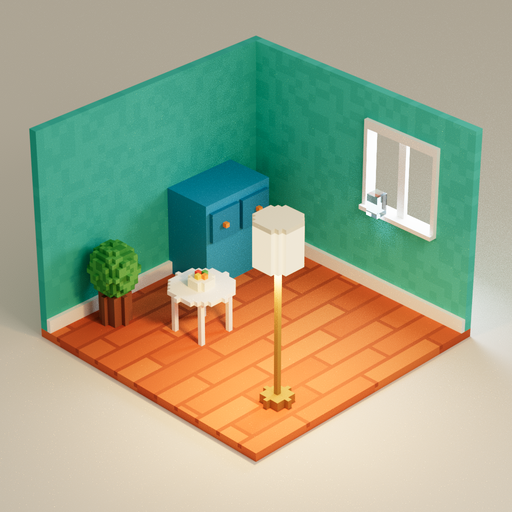
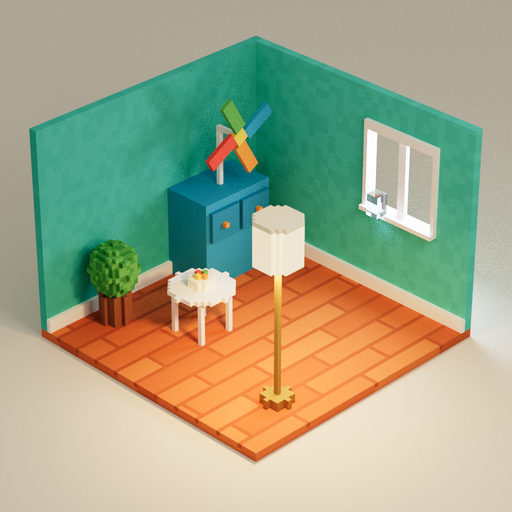
docs: voxel-diorama skill (modes, animation API, NOT-EMPTY targets, check command), user guide, scaffold images, CHANGELOG (#299)
Claude-Session: https://claude.ai/code/session_01LyBV1tX2JWocGLTjFkNYMh

Changed region(s): [[0.3125, 0.1875, 0.5312, 0.375], [0.5312, 0.5312, 0.5625, 0.5938], [0.2812, 0.5312, 0.3125, 0.5625]]

diff --git a/kits/pathtracer/SKILL.md b/kits/pathtracer/SKILL.md
@@ -8,6 +8,14 @@ and `crow-voxel-kit`, a voxel grid + mesher + studio. It gives global illuminati
 and contact shadows, colour bleeding and a lamp glow with no shader code of your own.
 Kit folder: `@CROW_KITS@/pathtracer` (scaffold in `scaffold/`, API in `voxel-kit.js`).
 
+The page has TWO MODES. It opens in LIVE mode: an animated raster preview (real lights,
+soft shadow maps, the same materials) that runs your `d.animate` callback every frame and
+can be orbited with the mouse. PHOTO mode pauses the animation at t and path-traces the
+frame until it converges. Key P or the small "Foto"/"Live" button switch. URL:
+`index.html?mode=photo&t=2` opens the photo of t = 2 s, `?mode=live` the preview, `&ui=0`
+hides the button. The kit is the only renderer code you need: no OrbitControls, no
+EffectComposer, no shaders.
+
 ## Steps
 
 1. Copy the scaffold. `read_file` `@CROW_KITS@/pathtracer/scaffold/index.html` and
@@ -15,36 +23,76 @@ Kit folder: `@CROW_KITS@/pathtracer` (scaffold in `scaffold/`, API in `voxel-kit
    working area. Do NOT copy `crow-pathtracer.js`: `build_bundle` resolves the bare imports
    `crow-voxel-kit` and `crow-pathtracer` to the kit itself.
 2. Plan on paper first (a short list in your reply): grid size, a palette of named hex
-   colours, every prop with its voxel box. DENSITY RULE: a room is at least 64 voxels wide
-   (walls ~48 high); every prop is at least 8-16 voxels in each dimension. Coarse voxels
-   make objects unreadable -- a 3-voxel chair is a blob.
-3. Write the scene in `src/scene.js`, content section only:
+   colours, every prop with its voxel box, every animated part. DENSITY RULE: a room is at
+   least 64 voxels wide (walls ~48 high); every main prop is at least 8-16 voxels in each
+   dimension. Coarse voxels make objects unreadable -- a 3-voxel chair is a blob.
+3. NOT-EMPTY RULE. The references are dense: every patch of ground carries something. Plan
+   and build at least:
+   - **40 named props** (`g.prop`) of **12 or more kinds**, **60,000 voxels** in total;
+   - **terrain coverage >= 0.5**: at least half of the ground's top cells have a prop above;
+   - the small details, many of each: rocks, grass tufts, flowers, bushes, fences, barrels,
+     crates, lanterns, paths/stepping stones, signs, birds, a bench, a well. A loop may
+     place 30 tufts -- they count as 30 props but ONE kind (names ending in a number are
+     one kind).
+4. Write the scene in `src/scene.js`, content section only:
    - `const g = new VoxelGrid()`; `g.box(x0,y0,z0, x1,y1,z1, colour, kind)`, `g.put`,
      `g.cyl(cx,cz,r, y0,y1, ...)`, `g.blob(cx,cy,cz, rx,ry,rz, ...)`, `g.clear(...)`.
      y is up; corners inclusive. `colour` is `'#rrggbb'` or `(x,y,z) => colour|null`
      (use `hash(x,y,z)` for variation). `kind`: `'matte'` (default), `'metal'`, `'glass'`,
      `'emit'`.
+   - Terrain (floor, island, cliffs) is built OUTSIDE any prop. Every object on it goes in
+     `g.prop('crate', () => { g.box(...); ... })` -- the name, its voxel count and bbox are
+     recorded; props may nest. Coverage is measured against the terrain, so an island built
+     inside a prop has no terrain and coverage `null`.
    - `const d = createDiorama(g, { width: 1024, height: 1024, background: '#ddd6c8' })`.
+     Night: a dark `background`, dark `domeTop`/`domeBottom`, `domeIntensity` ~0.15, a dim
+     cool `keyIntensity`, and the lamps/spots carry the light.
    - Lamps: `d.addLamp({ x, z, bottom, top })` -- it builds the SOLID glowing shade and puts
      the spot light just below it. Build the pole/base yourself up to `bottom - 1`.
    - Daylight: `d.addAreaLight({ at: [x,y,z], lookAt: [x,y,z], intensity: 30, width: 18, height: 18 })`
      just outside a window opening.
+   - A beam: `const beam = d.addSpot({ at: [x,y,z], lookAt: [x,y,z], angle: 12, intensity: 3000 })`
+     (`angle` = half-angle in degrees). `addLamp`, `addAreaLight` and `addSpot` return the
+     light's rig (a `THREE.Group` at `at`): `beam.rotation.y = t` sweeps it around `at`.
+   - Animated parts: build each moving thing in ITS OWN grid (same voxel coordinates), then
+     `const p = d.part('beam cone', partGrid, { pivot: [x,y,z] })` -> a `THREE.Group` that
+     turns around `pivot` (default: the part's centre). One part per independently moving
+     thing: one per firefly, one per water frame. A hidden part (`p.visible = false`) is
+     left out of the photo too. `p.userData.home` is its start position (world units; one
+     voxel = `d.voxelSize`).
+   - `d.animate((t, dt, scene) => { ... })` runs every live frame and once at the photo's
+     t. Drive everything from `t` (seconds): `beam.rotation.y = t * 0.8`,
+     `frames.forEach((f, i) => f.visible = i === Math.floor(t * 6) % frames.length)`,
+     `fly.position.y = fly.userData.home.y + 0.3 * Math.sin(t * 2 + i)`.
+     NEVER `Date`, `Math.random` or your own timers: Crow captures animation at a frozen,
+     stepped page clock, and only `t` moves with it. Use `hash(i, 0, 0)` for per-particle
+     variety.
    - `d.start()` last. It throws, with the reason, on anything that would render wrong.
-4. Build: `build_bundle` entry `src/index.html`, out `index.html`. That one file is the
+5. Build: `build_bundle` entry `src/index.html`, out `index.html`. That one file is the
    deliverable; it opens offline from file://. Edit `src/`, build again, never patch
    `index.html`.
-5. Verify: `render_page` `index.html`, `wait_ms` 20000, `width`/`height` = the canvas size,
-   one frame. Read the console lines `[crow-pt] ...`:
-   - `renderer:` must name the GPU (NVIDIA/AMD/Intel), not SwiftShader/llvmpipe;
-   - `samples=` should be >= 200 at 20 s (measured ~15 samples/s at 1024x1024 on an
-     RTX 5090; 60k triangles cost the same as 9k); `lost=0`, or a restore followed.
-   Then `read_image` the screenshot and check, item by item, against the user's reference
-   image if there is one: colour bleeding from walls onto floor, dark contact shadows in
-   creases, soft shadow edges, a warm light pool under each lamp, clean background with a
-   soft ground shadow, no grain or bright specks, every prop recognisable by name.
-   `window.__SCENE__` (voxels, triangles, materials) and `window.__PT__` (samples,
-   samplesPerSecond, renderer, lost) hold the same numbers for a checker.
-6. Fix what the check found in `src/scene.js` and repeat 4-5. Change content and light,
+6. Verify:
+   - Motion: `render_page` `index.html?mode=live&ui=0`, `frames` 4, `frame_ms` 500,
+     `width`/`height` = the canvas size. `read_image` the contact sheet: the beam, the water
+     and the particles must be in different places in the 4 frames.
+   - Photo: `render_page` `index.html?mode=photo&t=2&ui=0`, `wait_ms` 20000, one frame.
+     Read the console lines:
+     - `renderer:` must name the GPU (NVIDIA/AMD/Intel), not SwiftShader/llvmpipe;
+     - `[crow-pt] samples=` should be >= 200 at 20 s (measured ~15 samples/s at 1024x1024 on
+       an RTX 5090; 60k triangles cost the same as 9k); `lost=0`, or a restore followed;
+     - `[crow-scene] {...}`: `props`, `propKinds`, `voxels`, `coverage`, `parts`,
+       `animated`, `errors` -- hold them against the NOT-EMPTY targets.
+     Then `read_image` the photo and check, item by item, against the user's reference
+     image if there is one: colour bleeding, dark contact shadows in creases, soft shadow
+     edges, a warm light pool under each lamp, a clean background, no grain or bright specks,
+     every prop recognisable by name, no bare patch of ground.
+   - The whole check in one command (a goal's `check:`):
+     `python3 @CROW_KITS@/pathtracer/check_diorama.py index.html` -- PASS/FAIL per check
+     (gpu, samples, props, kinds, voxels, coverage, motion, repeat, photo, errors), exit 0
+     only when all pass.
+   `window.__SCENE__` (voxels, props with bbox, coverage, parts, animated, mode) and
+   `window.__PT__` (samples, samplesPerSecond, fps, renderer, lost) hold the same numbers.
+7. Fix what the check found in `src/scene.js` and repeat 5-6. Change content and light,
    not the kit.
 
 ## Traps (each one measured, 2026-09-25)
@@ -53,9 +101,13 @@ Kit folder: `@CROW_KITS@/pathtracer` (scaffold in `scaffold/`, API in `voxel-kit
   palette colour; never add a mesh with `vertexColors`, InstancedMesh or a non-Standard
   material (`start()` refuses them).
 - A spot light inside a hollow lamp shade: persistent fireflies (PSNR 30.6 dB); below a
-  solid shade: 38.6 dB. Use `addLamp`, do not place lamp lights by hand.
+  solid shade: 38.6 dB. Use `addLamp`, do not place lamp lights by hand; put an `addSpot`
+  beam outside the lantern glass, in front of solid voxels.
 - Bright emissive voxels are fireflies (the library does not importance-sample them).
-  Keep `emit` dim (the kit caps emissiveIntensity at 1) and light with lamps/area lights.
+  Keep `emit` dim (the kit caps emissiveIntensity at 1) and light with lamps/spots/area
+  lights. Fireflies/particles may be `emit` voxels; they glow, they do not light.
+- Animation from `Date.now()`, `Math.random()` or `setInterval` counters: the 4 live frames
+  do not repeat and Crow's motion check cannot trust them. Only `t` (and `dt`).
 - The source page `src/index.html` shows nothing from file:// (module imports are
   blocked). Always render the built `index.html`.
 - `build_bundle` needs an esbuild on this machine. If it reports none, tell the user --

diff --git a/docs/user-guide/voxel-kit.md b/docs/user-guide/voxel-kit.md
@@ -2,13 +2,14 @@
 
 # Voxel kit (path tracing)
 
-Path-traced voxel scenes (the MagicaVoxel look) as one offline HTML page (#298). The model writes
-only the content: voxels, a palette, lamps. Global illumination, soft and contact shadows, colour
-bleeding and the lamp glow come from a vendored path tracer. The model never writes a ray tracer
-or a shader.
+Path-traced voxel scenes (the MagicaVoxel look) as one offline HTML page (#298), animated and
+orbitable (#299). The model writes only the content: voxels, a palette, props, lamps, moving parts.
+Global illumination, soft and contact shadows, colour bleeding and the lamp glow come from a
+vendored path tracer. The model never writes a ray tracer or a shader.
 
 <div align="center">
-<img src="../images/voxel-kit-scaffold.png" alt="The kit's scaffold room, path traced: teal walls, plank floor, cabinet, table, plant, floor lamp, window" width="480">
+<img src="../images/voxel-kit-scaffold.png" alt="The kit's scaffold room in photo mode, path traced: teal walls, plank floor, cabinet with a pinwheel, table, plant, floor lamp, window" width="400">
+<img src="../images/voxel-kit-live-frames.png" alt="Four live-mode frames of the scaffold 0.5 s apart: the pinwheel turns" width="400">
 </div>
 
 ## Switch it on
@@ -36,7 +37,8 @@ or a shader.
 | 3 | plans the grid, palette and props (density rule below) |
 | 4 | writes `src/scene.js` with `crow-voxel-kit` |
 | 5 | `build_bundle` entry `src/index.html`, out `index.html`: one offline file |
-| 6 | `render_page index.html` with `wait_ms` 20000, reads the `[crow-pt]` console lines, then `read_image` against the reference |
+| 6 | `render_page index.html?mode=live&ui=0` with `frames` 4 (motion), `render_page index.html?mode=photo&t=2&ui=0` with `wait_ms` 20000 (the photo), reads the `[crow-pt]` / `[crow-scene]` console lines, then `read_image` against the reference |
+| 7 | or all of it at once: `check_diorama.py index.html` (below) |
 
 `import … from 'crow-voxel-kit'` and `'crow-pathtracer'` are resolved by `build_bundle` to the
 installed kit. The library never has to be in the working area. An import map in the page for
@@ -57,6 +59,33 @@ the same name wins.
 `start()` refuses a scene with `vertexColors`, a non-Standard material, an `InstancedMesh` or
 `emissiveIntensity` > 1, and names the mesh.
 
+## Modes (#299)
+
+| | |
+|---|---|
+| LIVE (default) | rasterised preview of the same scene and materials: real lights, soft shadow maps (`PCFShadowMap` + `shadow.radius`), the dome as environment, no bloom. Runs `d.animate` every frame. Area and key lights get raster stand-ins (a wide spot, a directional light) |
+| PHOTO | the animation paused at t, the scene posed once, the path tracer converging (the rules above: despeckle, context-loss restore) |
+| switch | key **P**, or the small **Foto** / **Live** button bottom right (shows only while the pointer is over the page) |
+| `?mode=photo&t=2` | opens as the photo of t = 2 s (for a judge) |
+| `?mode=live` | the preview |
+| `&ui=0` | no button at all |
+| camera | drag orbits around the target, wheel or pinch zooms (0.5×–3×); in photo mode a camera change restarts the accumulation (`updateCamera()`) |
+| time | only the page clock (the rAF timestamp): under render_page's frozen clock (#293) 4 frames differ and a second capture repeats them byte for byte |
+
+## Not empty (#299)
+
+Every object on the terrain goes in `g.prop('name', () => { … })`. Everything built outside a prop
+is terrain. The page reports:
+
+| | |
+|---|---|
+| `props` | named props that still hold voxels, each with `voxels` and `bbox` |
+| `propKinds` | distinct names without a trailing number (`rock 3`, `rock#12` → `rock`) |
+| `coverage` | terrain columns with a prop cell above the column's top terrain cell ÷ all terrain columns; `null` without terrain |
+
+The skill's targets: ≥ 40 props of ≥ 12 kinds, ≥ 60,000 voxels, coverage ≥ 0.5.
+
+
 ## API
 
 | | |
@@ -66,12 +95,40 @@ the same name wins.
 | `.box(x0,y0,z0, x1,y1,z1, …)` · `.clear(…)` | corners inclusive |
 | `.cyl(cx,cz, r, y0,y1, …)` · `.blob(cx,cy,cz, rx,ry,rz, …)` | vertical cylinder · ellipsoid |
 | `hash(x,y,z)` | stable value in [0,1) for colour variation |
-| `createDiorama(grid, opts)` | `width` `height` (1024), `voxelSize` (0.4), `background` (`#ddd6c8`), `fov` (14), `direction` ([1, 0.82, 1]), `zoom`, `fStop` (3.2), `bounces` (6), `despeckle` (true) |
-| `.addLamp({x, z, bottom, top})` | solid glowing shade from `bottom` to `top`, closed top, spot light below it |
-| `.addAreaLight({at, lookAt, intensity, width, height})` | soft rectangle light, voxel coordinates, e.g. daylight outside a window |
-| `.start()` | meshes, lights, camera, path tracer; returns `{scene, camera, renderer, pathTracer, probe}` |
-| `window.__SCENE__` | `voxels` `faces` `triangles` `materials` `lights` `size` |
-| `window.__PT__` | `renderer` `samples` `samplesPerSecond` `lost` `restored` `despeckled` `error` |
+| `createDiorama(grid, opts)` | `width` `height` (1024), `voxelSize` (0.4), `background` (`#ddd6c8`), `fov` (14), `direction` ([1, 0.82, 1]), `zoom`, `fStop` (3.2), `bounces` (6), `despeckle` (true), `shadows` (true), `shadowRadius` (4), `orbit` (true), `minZoom` (0.5), `maxZoom` (3), `liveLight` (1, live light scale) |
+| `.addLamp({x, z, bottom, top})` | solid glowing shade from `bottom` to `top`, closed top, spot light below it; returns the light rig |
+| `.addAreaLight({at, lookAt, intensity, width, height})` | soft rectangle light, voxel coordinates, e.g. daylight outside a window; returns the light rig |
+| `.addSpot({at, lookAt, colour, intensity, angle, penumbra, shadow})` | spot light, `angle` = half-angle in degrees; returns the light rig (`rig.rotation.y = t` sweeps a beam) |
+| `g.prop(name, build)` | records what `build` adds: `{name, voxels, bbox}`; props nest |
+| `.part(name, grid, {pivot})` | an animated part from its own grid → `THREE.Group` turning around `pivot`; `userData.home` = start position |
+| `.animate((t, dt, scene) => …)` | every live frame, and once at the photo's t; `t` in seconds of page time |
+| `.start()` | meshes, lights, camera, the chosen mode; returns `{scene, camera, renderer, pathTracer, probe, setMode, mode, time}` |
+| `.setMode('live' \| 'photo')` | what P does |
+| `window.__SCENE__` | `voxels` `staticVoxels` `faces` `triangles` `materials` `lights` `size` `props` `propCount` `propKinds` `propVoxels` `coverage` `terrainColumns` `parts` `animated` `mode` `t` `errors` |
+| `window.__PT__` | `renderer` `mode` `samples` `samplesPerSecond` `fps` `lost` `restored` `despeckled` `error` |
+| console | `[crow-scene] {json}` at start, first live frame, every mode switch and every 5 s; `[crow-pt] samples=…` (photo) / `[crow-live] fps=…` (live) every 5 s |
+
+## Checker
+
+`kits/pathtracer/check_diorama.py <built index.html>`: renders through Crow's own `render_page`
+(4 live frames twice, one photo at `wait_ms` 20000), prints PASS/FAIL per check, exit 0 only when
+all pass, 2 on a setup error.
+
+| check | passes when |
+|---|---|
+| gpu | both captures `render_mode` gpu, renderer not SwiftShader/llvmpipe |
+| probe | the `[crow-scene]` line came back from both, in the asked mode |
+| samples | photo ≥ `--min-samples` (200) |
+| props · kinds · voxels | ≥ `--min-props` (40) · `--min-kinds` (12) · `--min-voxels` (60000) |
+| coverage | ≥ `--min-coverage` (0.5) |
+| motion | animated, and all 6 pairs of the 4 live frames differ in > 0.5 % of pixels (channel delta > 25) |
+| repeat | the second live capture is byte-identical (`--no-repeat` skips) |
+| photo | not near-uniform, < 90 % near-black |
+| errors | no `Uncaught` / `[crow-error]` console line, `errors` 0, no setScene failure |
+
+Options: `--photo-t` (2), `--wait-ms` (20000), `--frame-ms` (500), `--size` (1024),
+`--reference DIR` (writes `<photo>-vs-reference.png` and prints mean luma/saturation per image),
+`--crow-cli DIR` (default: the `cli/` beside the kit, then `~/.local/share/crow/cli`).
 
 ## Numbers
 
@@ -79,7 +136,9 @@ the same name wins.
 |---|---|
 | samples/s | 13.0 at 10 s, 14.3 at 40 s, scaffold room (26,627 voxels, 46,168 triangles, 23 materials), headless Chromium 152, ANGLE/Vulkan, RTX 5090, 2026-09-25 |
 | proof scene | ~15 samples/s at 9,124 and at 59,964 triangles; PSNR 60 s vs 180 s = 39.79 dB (HD5) |
-| page size | 970,310 bytes (scaffold, built with esbuild 0.28.2) |
+| page size | 970,310 bytes (scaffold, built with esbuild 0.28.2); 981,292 bytes with the #299 kit (esbuild 0.25.5) |
+| live preview | 60 fps (vsync cap) on the scaffold, headless Chromium, ANGLE/Vulkan, RTX 5090, 1024×1024, 2026-09-25 |
+| photo after 20 s | 289 samples (14.5 samples/s), scaffold with the pinwheel part, same machine |
 | bundle | `crow-pathtracer.js` 958,266 bytes, sha256 in `kits/pathtracer/kit.json` |
 
 ## Third party

diff --git a/CHANGELOG.md b/CHANGELOG.md
@@ -16,6 +16,12 @@ The reasoning is in the commit and on the issue.
   - Before: the 2026-09-24/25 goal run hand-wrote a WebGL2 ray tracer for ~16 h (#293–#295).
   - The model's use of the kit in a live goal run is not measured.
 
+- **Voxel kit v2: animated live preview, photo mode, orbit, props registry, diorama checker** (#299, 2026-09-25).
+  - The page opens in LIVE mode: a rasterised three.js preview of the same scene and materials, with real lights, soft shadow maps (`PCFShadowMap` + `shadow.radius`; `PCFSoftShadowMap` is gone in three r182+) and the scene's `d.animate((t, dt, scene) => …)` every frame. PHOTO mode pauses at t and path-traces as before (despeckle, context-loss restore). Switch with key P or a small Foto/Live button that shows only under the pointer. `?mode=photo&t=<s>` opens the photo directly, `?mode=live` the preview, `&ui=0` hides the button. Drag orbits, wheel or pinch zooms; in photo mode a camera change restarts the accumulation.
+  - New API: `d.part(name, grid, {pivot})` returns a movable `THREE.Group` built from its own grid; `d.addSpot({...})`; `addLamp` / `addAreaLight` / `addSpot` return a light rig the callback can rotate (a lighthouse beam). Time comes only from the page clock, so render_page's 4 frames (#293) differ and repeat byte-identically.
+  - Against empty scenes: `g.prop(name, build)` records the name, voxels and bbox of each prop. `window.__SCENE__` and the console line `[crow-scene] {json}` report `props`, `propKinds`, `coverage` (terrain columns with a prop above their top cell, divided by all terrain columns), `parts`, `animated`, `mode` and `errors`. The skill sets the targets: ≥ 40 props of ≥ 12 kinds, ≥ 60,000 voxels, coverage ≥ 0.5.
+  - `kits/pathtracer/check_diorama.py <index.html>` is a goal `check:` command. It renders through Crow's own `render_page` and prints PASS/FAIL for gpu, probe, samples, props, kinds, voxels, coverage, motion (all 6 frame pairs > 0.5 % changed), repeat, photo precheck and errors; it exits 0 only when all pass.
+  - Measured on 2026-09-25, scaffold with its pinwheel part, headless Chromium, ANGLE/Vulkan, RTX 5090, 1024×1024: live 60 fps; photo 289 samples at 20 s (14.5 samples/s); live frame pairs changed 0.69–1.26 %; a second capture was byte-identical; 0 page errors. The scaffold fails the density targets by design (6 props, 26,751 voxels, coverage 0.118). A model-built dense scene is not measured yet.
 - **render_page captures frames at controlled page time** (#293, 2026-09-25). `frames` (1–4) and `frame_ms`
   (16–5000, default 500): with more than one frame the page's clock is frozen from its first script
   (`Date`, `performance.now`, timers, `requestAnimationFrame`, a seeded `Math.random`), and each capture follows

diff --git a/docs/README.md b/docs/README.md
@@ -14,7 +14,7 @@ is here.
 | [Linux](user-guide/linux.md) | install, the paths table, the engine build, memory scopes for server, render and command, optional helpers, the window on Wayland, troubleshooting |
 | [Memory](user-guide/memory.md) | what is written, by whom, and the gate |
 | [Skills](user-guide/skills.md) | using and writing one |
-| [Voxel kit](user-guide/voxel-kit.md) | path-traced voxel dioramas as one offline page: the vendored three-gpu-pathtracer, the voxel API, the measured rules, `--pathtracer` / `-PathTracer` |
+| [Voxel kit](user-guide/voxel-kit.md) | path-traced voxel dioramas as one offline page: the vendored three-gpu-pathtracer, the voxel API, live/photo modes and animation, props and coverage, `check_diorama.py`, the measured rules, `--pathtracer` / `-PathTracer` |
 | [Goals and subagents](user-guide/goals-and-subagents.md) | the plan a model writes for itself, what `done` has to prove, and the tasks it hands out |
 | [Browser panel](user-guide/browser.md) | the in-window panel on Linux, tabs, the address bar, `render_page`, what is unverified on Windows |
 | [Session search](user-guide/session-search.md) | the index over every archived conversation |

diff --git a/docs/developer-guide/testing.md b/docs/developer-guide/testing.md
@@ -65,10 +65,14 @@ The checkers carry their own suites: `tools/test_check_operating_point.py`,
 `tools/test_check_shared_core.py`, `tools/test_check_gui_prereqs.py`, plus
 `tools/test_gguf_header.py` and `tools/test_run_server_block.py`.
 
-`tools/test_pathtracer_kit.py` (15 cases) is the kit's suite: the checker red per broken link, and
+`tools/test_pathtracer_kit.py` (37 cases) is the kit's suite: the checker red per broken link, and
 the mesher run in `node` against the real `voxel-kit.js` and the vendored three.js — culled-face
 counts, one material per colour, no colour attribute, winding against the normal on every
-triangle, the emission cap, the scene rules, despeckle. The node half is skipped without `node`.
+triangle, the emission cap, the scene rules, despeckle; the props registry (count, bbox, nesting,
+a cell taken back by the terrain), the coverage maths, the `?mode=` parser and prop kinds (#299).
+The node half is skipped without `node`. The rest drives `kits/pathtracer/check_diorama.py` on
+fake render results: the `render:` record and `[crow-scene]` parsing, and each check red on its
+own defect (#299).
 
 ## The manifest
 

diff --git a/docs/developer-guide/repo.md b/docs/developer-guide/repo.md
@@ -12,7 +12,7 @@
 | `install.ps1` · `install.sh` | the two installers, one contract |
 | `tools/start-server.py` | model picker, becomes the inference server |
 | `tools/build-llama-server.sh` | builds the CUDA engine on Linux, where there is no release asset |
-| `kits/pathtracer/` | the voxel kit (#298): vendored three + three-mesh-bvh + three-gpu-pathtracer (`crow-pathtracer.js`, `kit.json`, `LICENSE.*`), `voxel-kit.js`, `scaffold/`, `SKILL.md` |
+| `kits/pathtracer/` | the voxel kit (#298): vendored three + three-mesh-bvh + three-gpu-pathtracer (`crow-pathtracer.js`, `kit.json`, `LICENSE.*`), `voxel-kit.js`, `scaffold/`, `SKILL.md`, `check_diorama.py` (#299) |
 | `tools/build-pathtracer-kit.sh` | rebuilds the bundle from the exact npm pins (`just pathtracer-kit`) |
 | `tools/check_pathtracer_kit.py` | holds bundle, licence texts and NOTICE against `kits/pathtracer/kit.json` |
 | `manifests/operating-point.json` | source of truth for every server command line |
